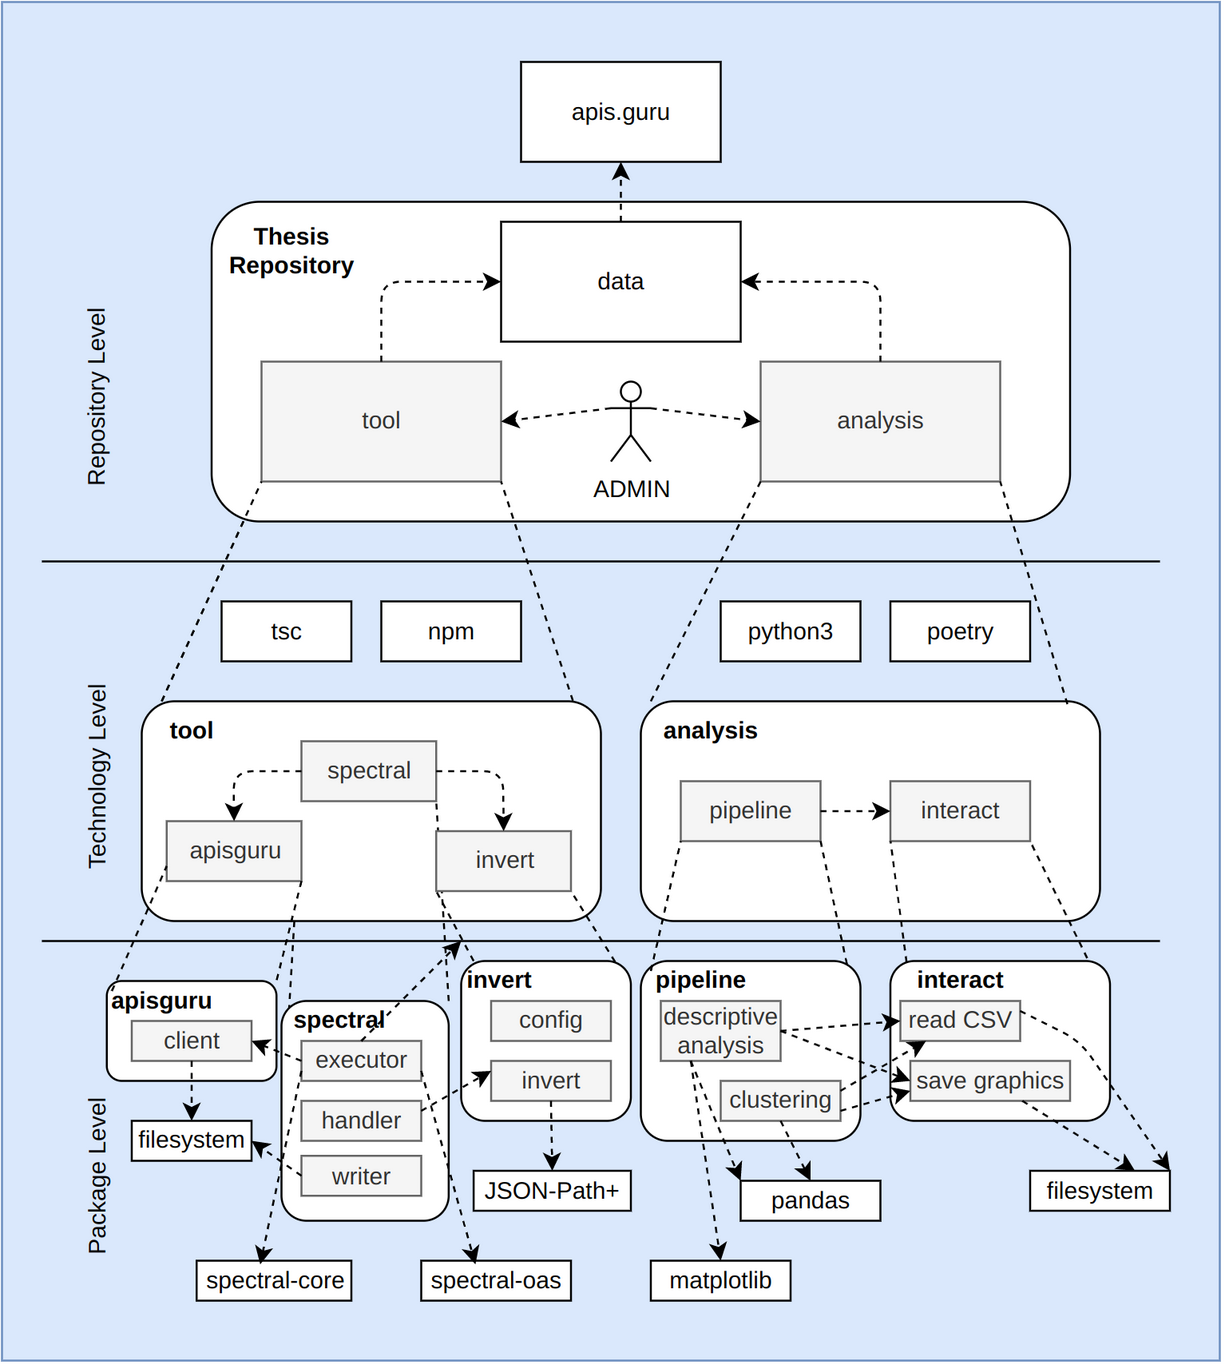
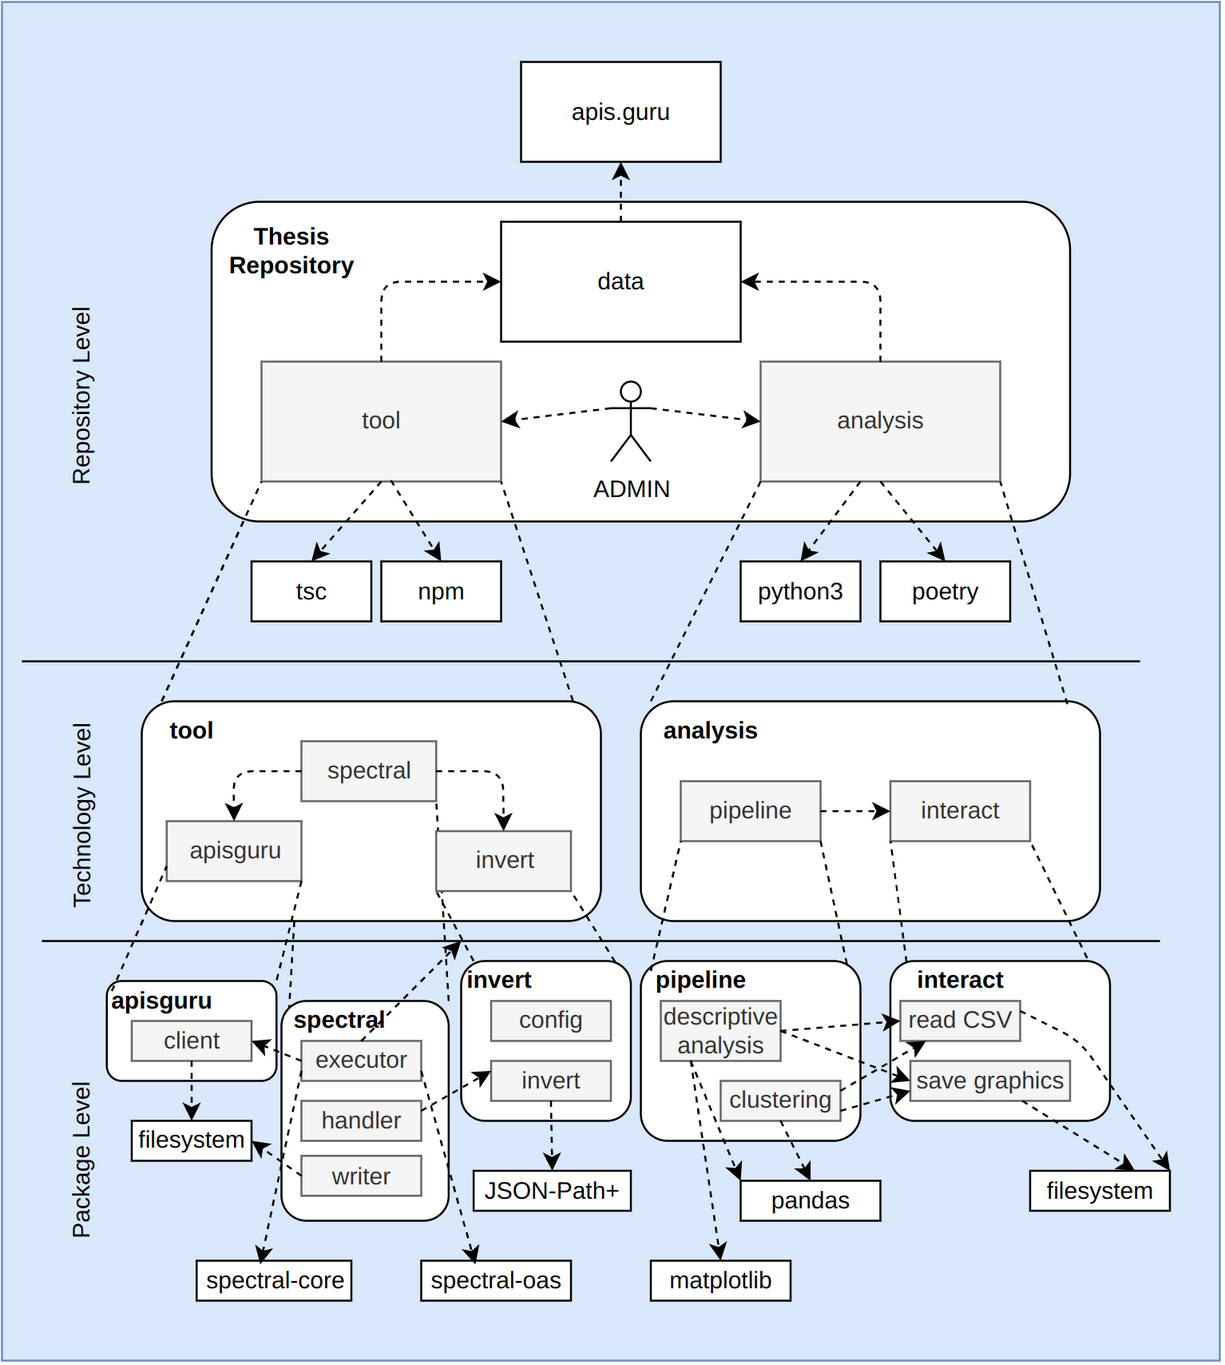
describe architecture diagrams also in text

diff --git a/tex/thesis/chapters/method.tex b/tex/thesis/chapters/method.tex
@@ -202,7 +202,7 @@ Die Anforderungen werden unterteilt in funktionale Anforderungen, Qualitätsanfo
 In diesem Abschnitt wird der Entwurfsprozess und die Entwurfsentscheidungen für die im Rahmen dieser Arbeit entwickelte Software dokumentiert. In diesem Prozess wurden die vorgegebenen Interaktionen und Anforderungen berücksichtigt. Die gezeigten vier Sichten nach \parencite{starke_effektive_2020} sollen die Softwarearchitektur effektiv und bedarfsgerecht beschreiben. Die Dokumentation enthält damit auch die Kernelemente der Architekturdokumentation nach der arc42 Vorlage\footnote{Arc42 ist eine Vorlage (Template) mit einer strukturierten Methode für die Dokumentation von Software und Systemarchitekturen. Arc42 wurde von P. Hruschka und G. Starke entwickelt und steht unter \href{https://www.arc42.de/}{https://www.arc42.de/} online zur Verfügung.}.
 
 \subsubsection{Kontextsicht}
-Die Kontextsicht zeigt, wie ein System in seine Umgebung eingebettet ist und welche Schnittstellen zu Nachbarsystemen vorhanden sind \parencite{starke_effektive_2020}. Für das hier entwickelte Softwaresystem ist wichtigste Schnittstelle nach außen die Verwendung des OpenAPI Directory von APIs.guru. Eine weitere Schnittstelle, die für die Funktionalität des Systems wichtig ist, ist die Verwendung des Spectral API Linters und des Spectral OAS Regelwerks, die hier als Software Bibliothek eingebunden werden können.
+Die Kontextsicht zeigt, wie ein System in seine Umgebung eingebettet ist und welche Schnittstellen zu Nachbarsystemen vorhanden sind \parencite{starke_effektive_2020}. Für das hier entwickelte Softwaresystem ist wichtigste Schnittstelle nach außen die Verwendung des OpenAPI Directory von APIs.guru. Eine weitere Schnittstelle, die für die Funktionalität des Systems wichtig ist, ist die Verwendung des Spectral API Linters und des Spectral OAS Regelwerks, die hier als Software Bibliotheken eingebunden werden können. Weiterhin kann die Kontextsicht den Datenfluss zwischen den Softwarekomponenten zeigen. Die Analyse Pipeline und das Tool zum Linten der Spezifikationen werden als zwei unabhängige Komponenten entwickelt. Die Datenanalyse kann auf Ergebnisse des Linter Tools über das Dateisystem zugreifen.
 \begin{figure}[htbp]
   \centering
   \includegraphics[width=1\linewidth]{img/contextview.png}
@@ -211,7 +211,12 @@ Die Kontextsicht zeigt, wie ein System in seine Umgebung eingebettet ist und wel
 \end{figure}
 
 \subsubsection{Bausteinsicht}
-Die Bausteinsicht zeigt, wie ein System intern aufgebaut ist und wie das Code Repository strukturiert ist, \parencite{starke_effektive_2020}. Es wird Top Down dokumentiert, welche Bausteine auf den verschiedenen Levels zum Einsatz kommen. Die einzelnen Bausteine werden als Whiteboxes gezeigt, die die darunterliegende Struktur und damit auch die Paketzerlegung des Quellcodes verdeutlichen. 
+Die Bausteinsicht zeigt, wie ein System intern aufgebaut ist und wie das Code Repository strukturiert ist, \parencite{starke_effektive_2020}. Es wird Top Down dokumentiert, welche Bausteine auf den verschiedenen Levels zum Einsatz kommen. Die einzelnen Bausteine werden als Whiteboxes gezeigt, die die darunterliegende Struktur und damit auch die Paketzerlegung des Quellcodes verdeutlichen. Die Bausteine zeigen den Teil des Code Repositorys, der die funktionalen Anforderungen implementiert. In den Levels werden Bausteine des Systems aufgebrochen und im Detail beschrieben. Die Technologien, auf denen die Komponenten Lintertool und Datenanalyse aufbauen sind sichtbar. In der untersten Schicht sind Kern Dependencies erwähnt, die für Einhaltung der Anforderungen notwendig sind.
+
+Das Lintertool läuft in einer NodeJS Umgebung und ist in TypeScript implementiert. Der Code wird mit dem \texttt{tsc} Compiler kompiliert und Module werden mit dem \texttt{node package manager (npm)} verwaltet. 
+
+Die Datenanalysepipeline läuft in einer python3 Umgebung. Die eingebundenen Module werden mit dem Tool \texttt{poetry} verwaltet.
+
 \begin{figure}[htbp]
   \centering
   \includegraphics[width=1\linewidth]{img/buildingblockview.png}
@@ -220,7 +225,9 @@ Die Bausteinsicht zeigt, wie ein System intern aufgebaut ist und wie das Code Re
 \end{figure}
 
 \subsubsection{Laufzeitsicht}
-Die Laufzeitsicht zeigt die Zusammenwirkung von wichtigen Bausteinen des Systems zur Laufzeit \parencite{starke_effektive_2020}. Hier wird die zeitliche Abfolge von Methodenaufrufen und dynamische Interaktion dokumentiert. Insbesondere ist hier zu sehen, wie die OpenAPI Spezifikationen iterativ verarbeitet werden und dabei in Folge mehrere Funktionsaufrufe gemacht werden.
+Die Laufzeitsicht zeigt die Zusammenwirkung von wichtigen Bausteinen des Systems zur Laufzeit \parencite{starke_effektive_2020}. Hier wird die zeitliche Abfolge von Methodenaufrufen und dynamische Interaktion dokumentiert. Insbesondere ist hier zu sehen, wie die OpenAPI Spezifikationen iterativ verarbeitet werden und dabei in Folge mehrere Funktionsaufrufe gemacht werden. Insbesondere die iterative Verarbeitung der OpenAPI Spezifikationen in einer mit \texttt{loop} gekennzeichneten Schleife zeigt die Kernfunktionalität des Linter Tools.
+
+Eine Laufzeitsicht für die Datenanalyse liefert hier nur wenig Erkenntnisgewinn. Die Methodik zur Datenanalyse ist im Kapitel \ref{chapter:dataanalysis} Datenanalyse beschrieben.
 \begin{figure}[htbp]
   \centering
   \includegraphics[width=1\linewidth]{img/runtimeview.png}
@@ -230,7 +237,12 @@ Die Laufzeitsicht zeigt die Zusammenwirkung von wichtigen Bausteinen des Systems
 
 
 \subsubsection{Verteilungssicht}
-Die Verteilungssicht beschreibt die Laufzeitumgebung des Systems und deren Hardwarekomponenten \parencite{starke_effektive_2020}. Zudem werden hier die Laufzeitumgebungen der Software Komponenten dokumentiert, sowie Datenquellen und Datensenken definiert. Da die Software, die in dieser Arbeit entwickelt wird, direkt in der Entwicklungsumgebung ausgeführt wird, ist die Verteilungssicht hier nur wenig aussagekräftig.
+Die Verteilungssicht beschreibt die Laufzeitumgebung des Systems und deren Hardwarekomponenten \parencite{starke_effektive_2020}. Zudem werden hier die Laufzeitumgebungen der Software Komponenten dokumentiert, sowie Datenquellen und Datensenken definiert. 
+
+Die Software, die in dieser Arbeit entwickelt wird, wird zu einem Großteil auch in der lokalen Entwicklungsumgebung ausgeführt. Als Ausnahme hier zählt die unabhängige Datenquelle von APIs.guru, die als Git Submodul\footnote{Software Dokumentation zu Git Sumodulen: \href{https://git-scm.com/book/en/v2/Git-Tools-Submodules}{https://git-scm.com/book/en/v2/Git-Tools-Submodules}} eingebunden ist.
+
+Software Tests und Qualitätsprüfungen wie Linter und Format Checks werden zudem in einer Integrationspipeline mithilfe von GitHub Actions\footnote{GitHub Actions: \href{https://github.com/features/actions}{https://github.com/features/actions}} auf einem Remote Server ausgeführt. Da dies keinen Einfluss auf die Funktionalität der Software hat, ist dieser Schritt nicht in der Verteilungssicht abgebildet.
+
 \begin{figure}[htbp]
   \centering
   \includegraphics[width=1\linewidth]{img/deploymentview.png} \caption{Verteilungssicht des Systems}
@@ -238,6 +250,7 @@ Die Verteilungssicht beschreibt die Laufzeitumgebung des Systems und deren Hardw
 \end{figure}
 
 \subsection{Datenanalyse}
+\label{chapter:dataanalysis}
 Die Datenanalyse ist Teil der Software die im Rahmen dieser Arbeit entwickelt wird. Das Ziel der Datenanalyse ist es, eine datengetriebene Antwort auf die Forschungsfragen zu geben. Dazu werden statistische Methoden und Methoden des maschinellen Lernens verwendet.
 
 In einer explorativen Analyse werden die Hauptcharakteristiken des Datensatzes aufgezeigt \parencite{tukey_exploratory_1977}. Hier können folgende Fragen beantwortet werden:
